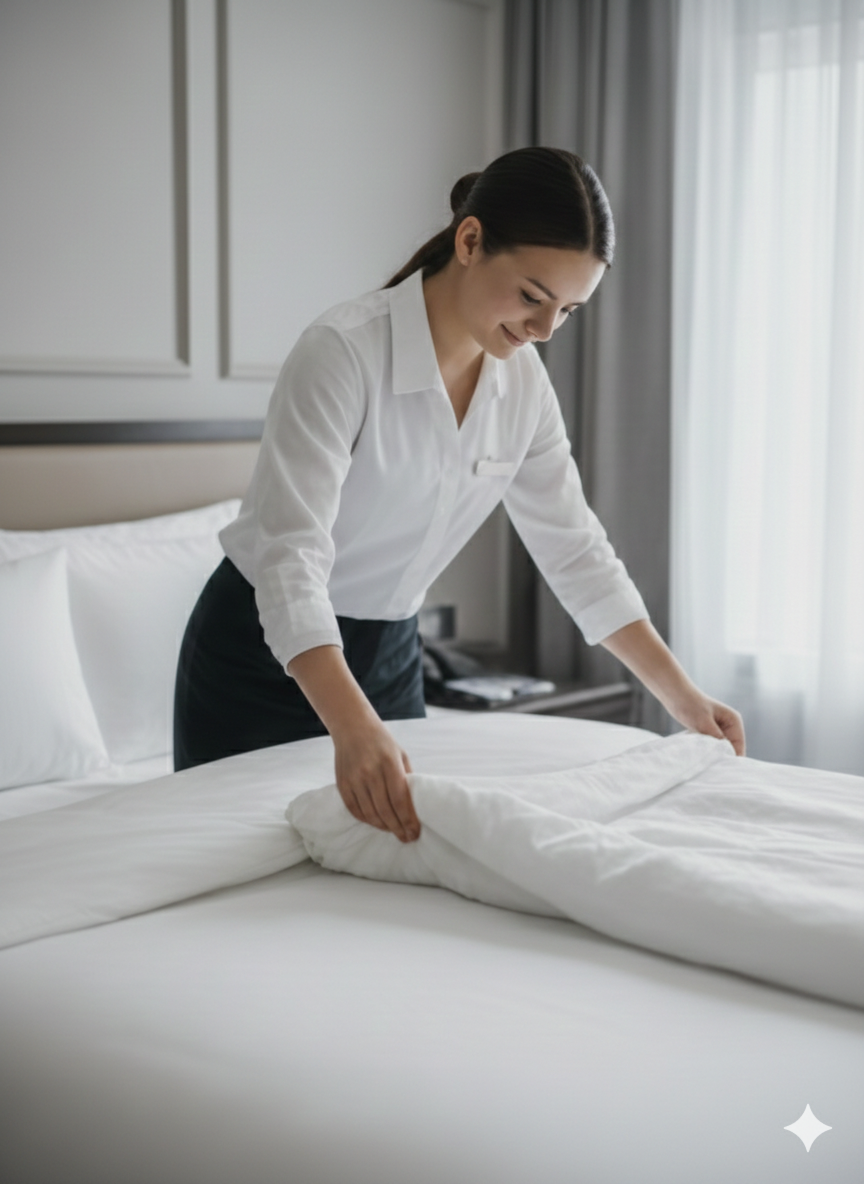
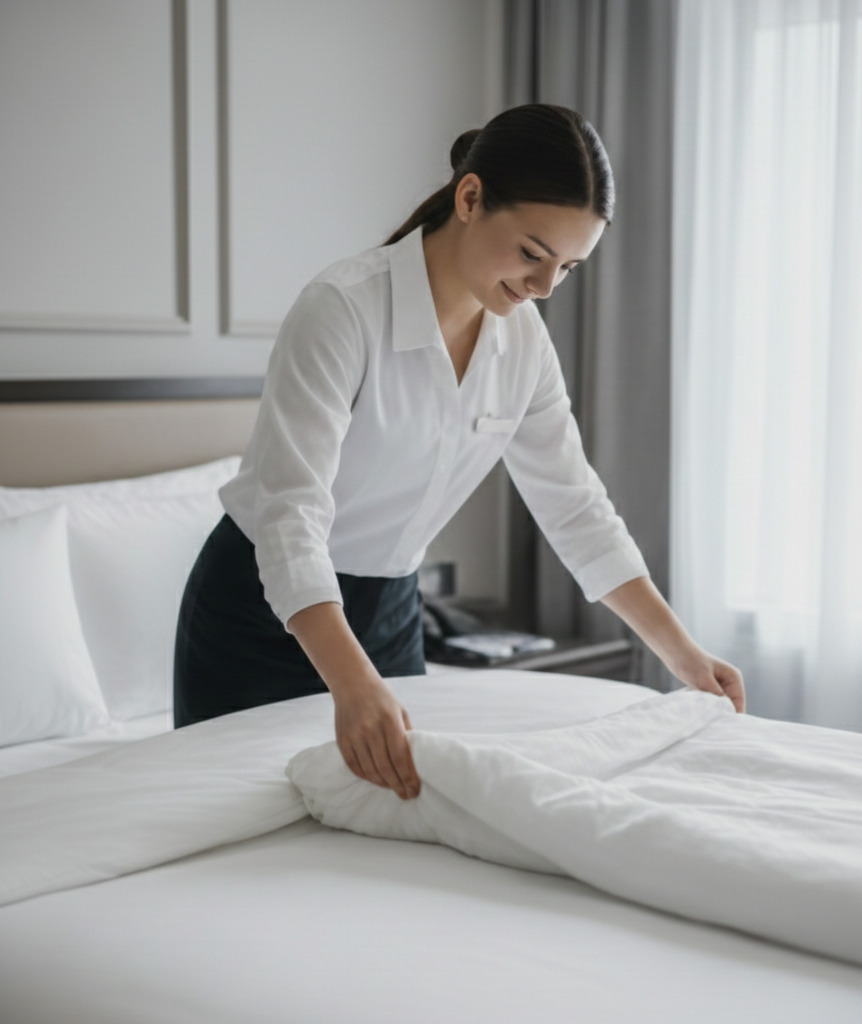
feat: Refresh image assets and update component references in `HumanElement` and `ServiceGrid`.

diff --git a/app/components/sections/ServiceGrid.tsx b/app/components/sections/ServiceGrid.tsx
@@ -11,7 +11,7 @@ export default function ServiceGrid() {
           <div className="group cursor-pointer flex flex-col items-center min-w-[240px] md:min-w-0 snap-center">
             <div className="relative w-full aspect-[3/4] overflow-hidden mb-6 bg-gray-100 shadow-sm transition-shadow duration-500 group-hover:shadow-md">
               <Image
-                src="/imgs/sec-1-1.png"
+                src="/imgs/sec-1-1.1.jpg"
                 alt="Premium Towels"
                 fill
                 className="object-cover transition-transform duration-1000 group-hover:scale-105"
@@ -31,7 +31,7 @@ export default function ServiceGrid() {
           <div className="group cursor-pointer flex flex-col items-center min-w-[240px] md:min-w-0 snap-center">
             <div className="relative w-full aspect-[3/4] overflow-hidden mb-6 bg-gray-100 shadow-sm transition-shadow duration-500 group-hover:shadow-md">
               <Image
-                src="/imgs/sec-1-2.png"
+                src="/imgs/sec-1-2.1.jpg"
                 alt="Staff Support"
                 fill
                 className="object-cover transition-transform duration-1000 group-hover:scale-105"
@@ -69,7 +69,7 @@ export default function ServiceGrid() {
           <div className="group cursor-pointer flex flex-col items-center min-w-[240px] md:min-w-0 snap-center">
             <div className="relative w-full aspect-[3/4] overflow-hidden mb-6 bg-gray-100 shadow-sm transition-shadow duration-500 group-hover:shadow-md">
               <Image
-                src="/imgs/sec-1-4.3.png"
+                src="/imgs/sec-1-4.4.jpg"
                 alt="Amenities"
                 fill
                 className="object-cover transition-transform duration-1000 group-hover:scale-105"

diff --git a/app/components/sections/HumanElement.tsx b/app/components/sections/HumanElement.tsx
@@ -7,7 +7,7 @@ export default function HumanElement() {
       <div className="w-full md:w-1/2 relative min-h-[400px]">
         <div className="absolute inset-0 bg-navy">
           {/* Placeholder for "Candid, high-end photo of Alba staff inspecting quality" */}
-          <div className="absolute inset-0 bg-[url('/imgs/hygiene-img.png')] bg-cover bg-center" />
+          <div className="absolute inset-0 bg-[url('/imgs/hygiene-img.1.jpg')] bg-cover bg-center" />
         </div>
       </div>
 
